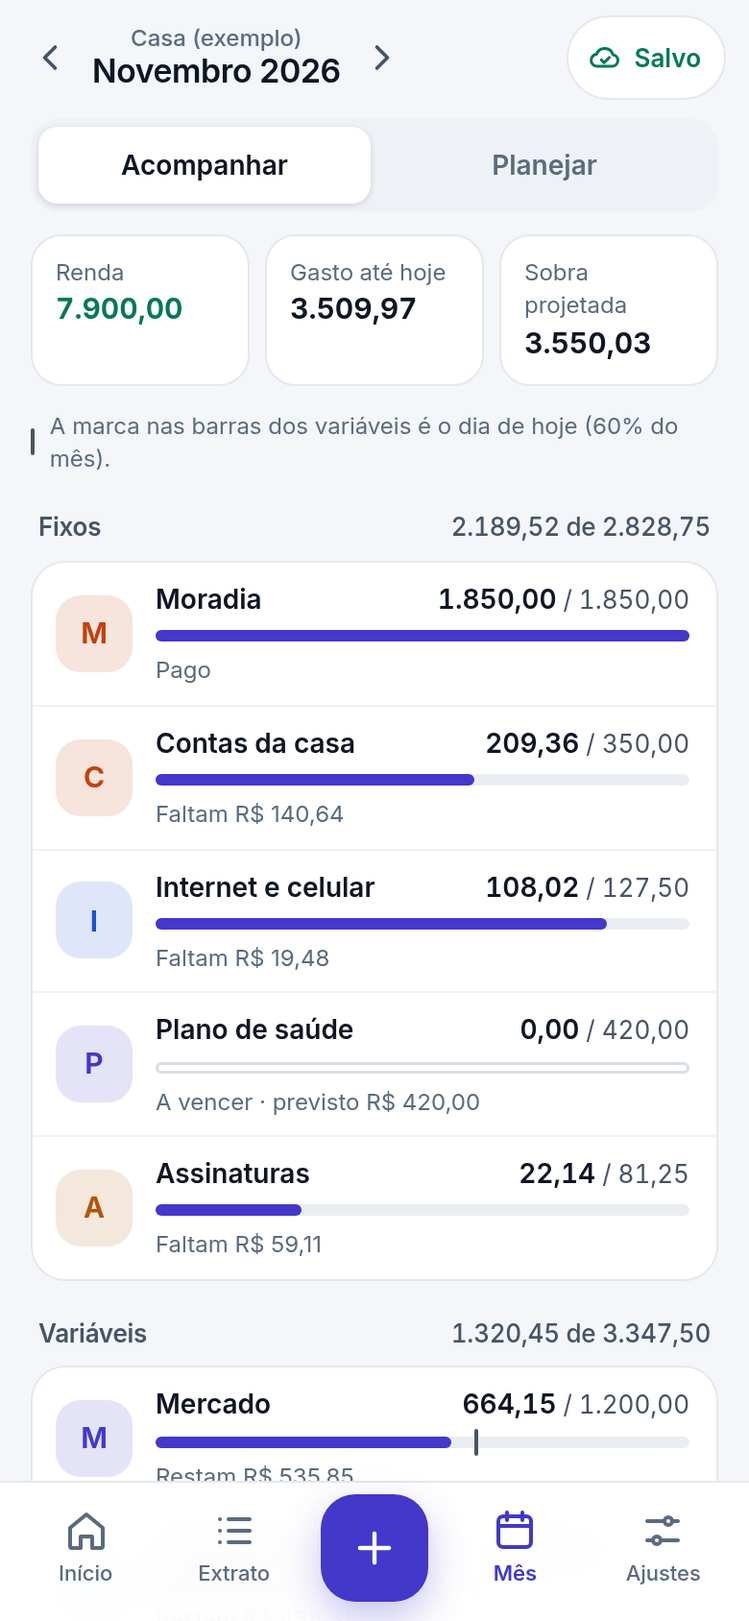
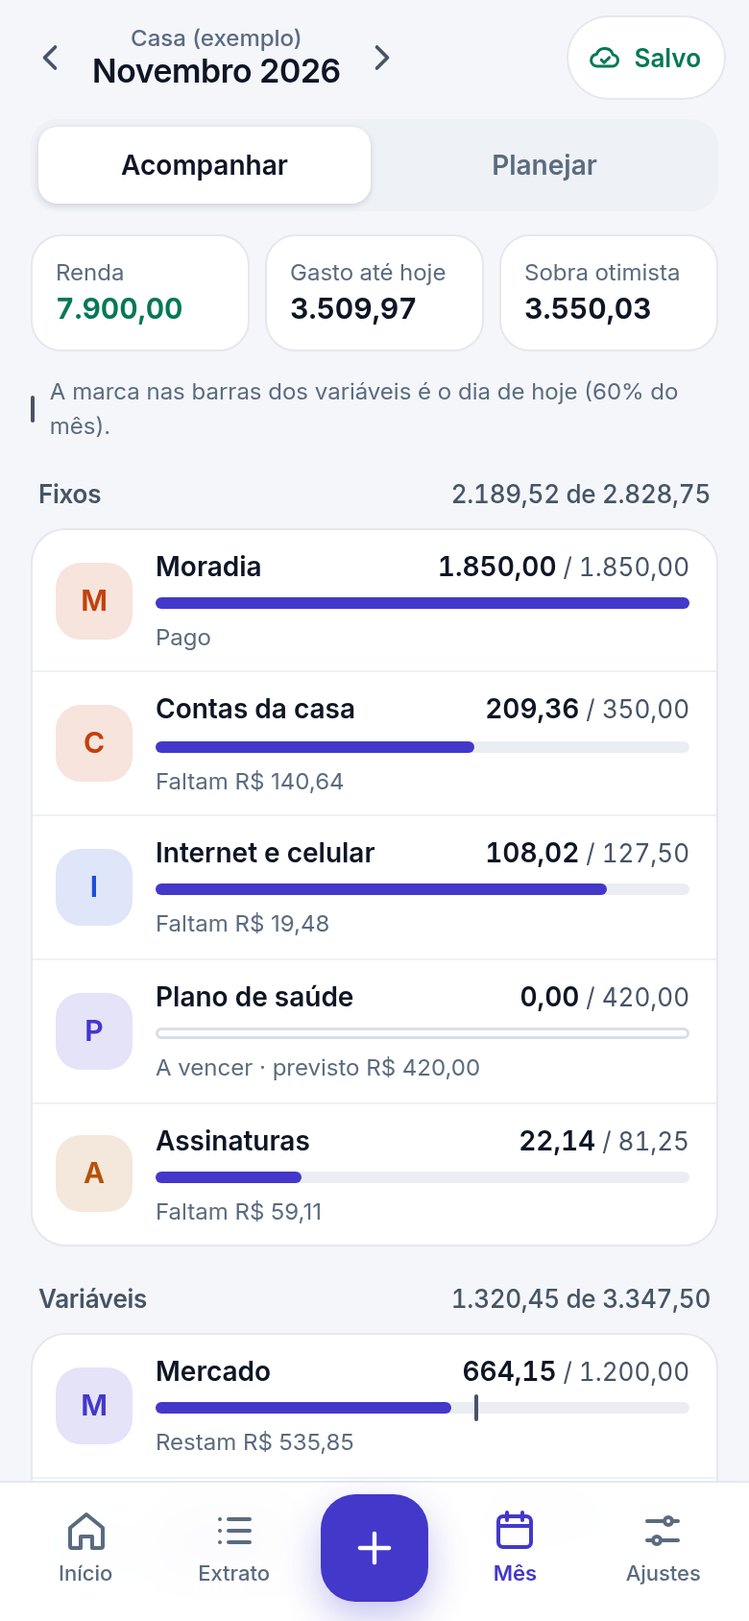
2.1.2: de onde vem o disponível e sobra otimista explicada

diff --git a/src/App.html b/src/App.html
@@ -331,15 +331,20 @@ function resumo(ano, mes) {
   const dias = diasNoMes(ano, mes);
   const restantes = f === 'atual' ? dias - h.dia + 1 : 0;
   const rendaBase = rendaReal > 0 ? rendaReal : renda;
+  const previsto = arred(gastos - gastoReal);
+  const aindaNaConta = rendaBase - gastoReal;
+  const restanteIniciados = Math.max(0, aRealizar - previsto);
+  const sobraBase = aindaNaConta - previsto;
   const disponivel = rendaBase - gastoReal - aRealizar;
   const sobraSeGastarPlanos = renda - gastoReal - aRealizar;
   return {
     fase: f, qtd, qtdGastos, qtdConsumo, dias, restantes, porCat,
-    renda: arred(renda), rendaPlano: arred(rendaPlano), gastos: arred(gastos), sobra: arred(renda - gastos), previsto: arred(gastos - gastoReal),
+    renda: arred(renda), rendaPlano: arred(rendaPlano), gastos: arred(gastos), sobra: arred(renda - gastos), previsto,
     gastosConsumo: arred(gastosConsumo),
     gastoComPlano: arred(gastoComPlano), semPlano: arred(semPlano), semPlanoQtd,
     rendaReal: arred(rendaReal), gastoReal: arred(gastoReal), aVencer: arred(aVencer), planoGastos: arred(planoGastos),
-    rendaBase: arred(rendaBase), gastoConsumoReal: arred(gastoConsumoReal),
+    rendaBase: arred(rendaBase), aindaNaConta: arred(aindaNaConta), restanteIniciados: arred(restanteIniciados), sobraBase: arred(sobraBase),
+    gastoConsumoReal: arred(gastoConsumoReal),
     guardadoPlano: arred(guardadoPlano), guardadoReal: arred(guardadoReal),
     aRealizar: arred(aRealizar), aRealizarConsumo: arred(aRealizarConsumo),
     sobraSeGastarPlanos: arred(sobraSeGastarPlanos), disponivel: arred(disponivel), sobraReal: arred(rendaReal - gastoReal),
@@ -587,16 +592,20 @@ function cartaoHeroi(r) {
     const rendaLbl = r.rendaReal > 0 ? 'Renda recebida' : 'Renda prevista';
     const rendaDet = r.rendaReal > 0 && r.rendaPlano > r.rendaReal ? ` (de ${moeda(r.rendaPlano)})` : '';
     const saiuLbl = r.guardadoReal > 0 ? '− Já saiu (gastos + Guardar)' : '− Já saiu';
-    const resLbl = r.guardadoPlano > 0 ? '− Ainda reservado (planos + Guardar)' : '− Ainda reservado';
     const conta = `<div class="conta-heroi">`
       + `<div><span>${rendaLbl}${rendaDet}</span><strong>${moeda(r.rendaBase)}</strong></div>`
       + `<div><span>${saiuLbl}</span><strong>${moeda(r.gastoReal)}</strong></div>`
-      + `<div><span>${resLbl}</span><strong>${moeda(r.aRealizar)}</strong></div>`
+      + `<div class="subtotal"><span>= ${r.rendaReal > 0 ? 'Ainda na conta' : 'Ainda previsto'}</span><strong>${moeda(r.aindaNaConta)}</strong></div>`
+      + (r.previsto > 0 ? `<div><span>− Planos sem lançamento</span><strong>${moeda(r.previsto)}</strong></div>` : '')
+      + (r.restanteIniciados > 0 ? `<div><span>− Restante dos planos já iniciados</span><strong>${moeda(r.restanteIniciados)}</strong></div>` : '')
       + `<div class="total"><span>= Disponível</span><strong>${moeda(r.disponivel)}</strong></div>`
       + '</div>';
-    const dica = '<p class="sub" style="margin-top:10px">O disponível é o que sobra depois de tudo o que já saiu e do que ainda está reservado. Gastar menos que o plano aumenta a sobra.</p>';
+    const sobraNota = r.restanteIniciados > 0
+      ? `<p class="sub" style="margin-top:8px">Se você não gastar o restante dos planos, sobram ${moeda(r.sobraBase)}.</p>` : '';
+    const dica = '<p class="sub" style="margin-top:8px">“Ainda na conta” é o que entrou menos o que já saiu. O “Disponível” desconta o que ainda está planejado.</p>'
+      + (r.aRealizar > 0 ? '<p class="sub" style="margin-top:4px"><button type="button" class="link" data-acao="detalhe-reserva" data-foco="detalhe-reserva">De onde vem esse valor?</button></p>' : '');
     return `<section class="cartao g-heroi heroi" aria-labelledby="h-livre"><h2 id="h-livre" class="rotulo">Disponível para gastar até ${r.dias}/${dois(S.mes)}</h2>`
-      + `<p class="numero-heroi${r.disponivel < 0 ? ' negativo' : ''}">${moeda(r.disponivel)}</p><p class="sub">${sub}</p>${conta}${dica}</section>`;
+      + `<p class="numero-heroi${r.disponivel < 0 ? ' negativo' : ''}">${moeda(r.disponivel)}</p><p class="sub">${sub}</p>${conta}${sobraNota}${dica}</section>`;
   }
   if (r.fase === 'passado') {
     const real = r.qtdGastos > 0 || r.rendaReal > 0;
@@ -635,7 +644,7 @@ function cartaoKpis(r) {
     tiles = [
       ['Renda do mês', moeda(r.rendaPlano || r.renda), r.rendaReal > 0 ? (r.rendaPlano > r.rendaReal ? `recebida ${moeda(r.rendaReal)} de ${moeda(r.rendaPlano)}` : `recebida ${moeda(r.rendaReal)}`) : 'prevista', 'ok'],
       ['Já saiu', moeda(r.gastoReal), `${r.qtdGastos} lançamento${r.qtdGastos === 1 ? '' : 's'}${r.guardadoReal > 0 ? ` · guardado ${moeda(r.guardadoReal)}` : ''}`, ''],
-      ['Ainda reservado', moeda(r.aRealizar), r.guardadoPlano > 0 ? 'planos + guardar' : 'planos do mês', ''],
+      ['Ainda planejado', moeda(r.aRealizar), r.guardadoPlano > 0 ? 'planos + guardar' : 'o que falta nos planos', ''],
       ['Guardado', moeda(r.guardadoReal), r.guardadoPlano > 0 ? `meta ${moeda(r.guardadoPlano)}` : g ? 'sem meta neste mês' : 'defina uma meta', ''],
     ];
   } else if (r.fase === 'passado') {
@@ -779,7 +788,8 @@ function cartaoAno() {
   const meses = Array.from({ length: 12 }, (_, i) => {
     const rr = resumo(S.ano, i + 1);
     const real = rr.fase === 'passado' && (rr.qtdGastos > 0 || rr.rendaReal > 0);
-    return { mes: i + 1, sobra: real ? rr.sobraReal : rr.sobra, fase: rr.fase, real };
+    const sobra = rr.fase === 'atual' ? rr.sobraBase : real ? rr.sobraReal : rr.sobra;
+    return { mes: i + 1, sobra, fase: rr.fase, real };
   });
   const mp = Math.max(0, ...meses.map((m) => m.sobra)); const mn = Math.max(0, ...meses.map((m) => -m.sobra));
   const total = mp + mn || 1;
@@ -789,14 +799,14 @@ function cartaoAno() {
   const barras = meses.map((m) => {
     const hPos = m.sobra > 0 && mp ? Math.max(2, Math.round((m.sobra / mp) * hp)) : 0;
     const hNeg = m.sobra < 0 && mn ? Math.max(2, Math.round((-m.sobra / mn) * hn)) : 0;
-    const extra = m.real ? ' (realizada)' : ' (projeção)';
+    const extra = m.fase === 'atual' ? ' (projeção otimista: não desconta o restante dos planos)' : m.real ? ' (realizada)' : ' (projeção)';
     return `<button type="button" class="ga-mes ${m.fase}${!m.real && m.fase !== 'futuro' ? ' futuro' : ''}${m.mes === S.mes ? ' sel' : ''}" data-acao="ir-mes" data-mes="${m.mes}" data-foco="ga-${m.mes}" title="${esc(Mes(m.mes) + ': ' + moeda(m.sobra) + extra)}" aria-label="${esc(Mes(m.mes) + ': ' + moeda(m.sobra) + extra)}">`
       + `<span class="ga-pos"><i style="height:${hPos}px"></i></span><span class="ga-neg"><i style="height:${hNeg}px"></i></span><span class="ga-rot">${MesC(m.mes)}</span></button>`;
   }).join('');
   return `<section class="cartao g-ano" aria-labelledby="h-ano"><div class="cartao-topo"><h2 id="h-ano">Sobra mês a mês · ${S.ano}</h2></div>`
     + '<div class="legenda"><span><i style="background:var(--acento)"></i>sobrou</span><span><i style="background:var(--acima)"></i>faltou</span><span><i style="box-shadow:inset 0 0 0 1.5px var(--tinta-3)"></i>projeção (contorno)</span></div>'
     + `<figure class="grafico-ano"><div class="ga-barras" style="--hp:${hp}px;--hn:${hn}px">${barras}</div>`
-    + `<figcaption class="sub" style="margin-top:8px">Acumulado em ${S.ano}, contando o previsto: <strong class="${acumulado < 0 ? 'txt-acima' : 'txt-ok'}">${moeda(acumulado)}</strong></figcaption></figure></section>`;
+    + `<figcaption class="sub" style="margin-top:8px">Acumulado em ${S.ano}, contando o previsto: <strong class="${acumulado < 0 ? 'txt-acima' : 'txt-ok'}">${moeda(acumulado)}</strong>. A sobra do mês atual é otimista: não desconta o restante dos planos já iniciados.</figcaption></figure></section>`;
 }
 
 /* ---------- Extrato ---------- */
@@ -873,9 +883,10 @@ function kpisMes(r) {
   }
   const atual = r.fase === 'atual';
   const renda = atual ? (r.rendaPlano || r.renda) : r.fase === 'passado' ? (r.rendaReal || r.renda) : r.renda;
+  const sobraKpi = atual ? r.sobraBase : r.fase === 'futuro' ? r.sobra : (r.rendaReal > 0 || r.gastoReal > 0 ? r.sobraReal : r.sobra);
   return `<div class="kpis-mes"><div><span>Renda</span><strong class="txt-ok">${num(renda)}</strong></div>`
     + `<div><span>${atual ? 'Gasto até hoje' : r.fase === 'futuro' ? 'Gastos previstos' : 'Gastos'}</span><strong>${num(atual ? r.gastoConsumoReal : r.gastosConsumo)}</strong></div>`
-    + `<div class="${r.sobra < 0 ? 'alerta' : ''}"><span>${atual ? 'Sobra projetada' : r.fase === 'futuro' ? 'Sobra prevista' : 'Sobra'}</span><strong>${num(r.sobra)}</strong></div></div>`;
+    + `<div class="${sobraKpi < 0 ? 'alerta' : ''}"${atual ? ' title="Não desconta o restante dos planos já iniciados"' : ''}><span>${atual ? 'Sobra otimista' : r.fase === 'futuro' ? 'Sobra prevista' : 'Sobra'}</span><strong>${num(sobraKpi)}</strong></div></div>`;
 }
 function telaAcompanhar(r) {
   const blocos = ORDEM_GRUPOS.map((g) => {
@@ -1387,6 +1398,58 @@ function confirmarPrevisto(cid, ano, mes) {
   aviso(ehGuardar(c) ? `${moeda(v.plano)} guardado.` : `${c.nome}: ${moeda(v.plano)} lançado.`, { acao: 'Desfazer', fn: () => registrar({ t: 'lanc-', id }) });
 }
 
+/* ---------- De onde vem o disponível ---------- */
+function abrirDetalheReserva() {
+  const ano = S.ano; const mes = S.mes;
+  abrirFolha({
+    tipo: 'reserva',
+    montar(el) {
+      const r = resumo(ano, mes);
+      const semLanc = r.porCat.filter(({ c, v }) => c.grupo !== 'renda' && v.plano > 0 && v.real === 0)
+        .sort((a, b) => b.v.plano - a.v.plano);
+      const iniciados = r.porCat.filter(({ c, v }) => c.grupo !== 'renda' && v.plano > 0 && v.real > 0 && v.plano > v.real + 0.004)
+        .sort((a, b) => (b.v.plano - b.v.real) - (a.v.plano - a.v.real));
+      const acima = r.porCat.filter(({ c, v }) => c.grupo !== 'renda' && v.plano > 0 && v.real > v.plano + 0.004)
+        .sort((a, b) => (b.v.real - b.v.plano) - (a.v.real - a.v.plano));
+      const totalAcima = acima.reduce((a, { v }) => a + (v.real - v.plano), 0);
+      const linha = (c, detalhe, valor, classe = '') => `<div class="reserva-linha">${mono(c)}<div class="reserva-txt"><strong>${esc(c.nome)}</strong><span>${esc(detalhe)}</span></div><strong class="reserva-valor${classe ? ' ' + classe : ''}">${valor}</strong></div>`;
+      const linhas = [
+        `<div><span>${r.rendaReal > 0 ? 'Renda recebida' : 'Renda prevista'}</span><strong>${moeda(r.rendaBase)}</strong></div>`,
+        `<div><span>− Já saiu</span><strong>${moeda(r.gastoReal)}</strong></div>`,
+        `<div class="subtotal"><span>= ${r.rendaReal > 0 ? 'Ainda na conta' : 'Ainda previsto'}</span><strong>${moeda(r.aindaNaConta)}</strong></div>`,
+        r.previsto > 0 ? `<div><span>− Planos sem lançamento</span><strong>${moeda(r.previsto)}</strong></div>` : '',
+        `<div class="subtotal"><span>= Sobra se não gastar o restante</span><strong>${moeda(r.sobraBase)}</strong></div>`,
+        r.restanteIniciados > 0 ? `<div><span>− Restante dos planos já iniciados</span><strong>${moeda(r.restanteIniciados)}</strong></div>` : '',
+        `<div class="total"><span>= Disponível</span><strong>${moeda(r.disponivel)}</strong></div>`,
+      ].join('');
+      const bloco = (titulo, total, texto, itens, fmt) => !itens.length ? ''
+        : `<section><h3 class="grupo-titulo"><span>${titulo}</span><span>${moeda(total)}</span></h3><p class="sub">${texto}</p><div class="lista">${itens.map(fmt).join('')}</div></section>`;
+      el.innerHTML = topoFolha('De onde vem o disponível', `${Mes(mes)} de ${ano}`)
+        + '<div class="folha-corpo">'
+        + '<p class="sub">O disponível é o dinheiro que sobra depois de tudo o que já saiu e do que ainda está planejado. “Ainda planejado” não é dinheiro que saiu: é o que falta para completar os planos que você gravou.</p>'
+        + `<div class="conta-heroi" style="margin-top:0">${linhas}</div>`
+        + bloco('Planos sem lançamento', r.previsto, 'Categorias com plano e nenhum gasto ainda. A sobra já conta esses valores como gastos.', semLanc,
+          ({ c, v }) => linha(c, `plano ${moeda(v.plano)}`, moeda(v.plano)))
+        + bloco('Restante dos planos já iniciados', r.restanteIniciados, 'Categorias em que você já gastou algo, mas o plano é maior. Esse resto é o que reduz o disponível em relação à sobra.', iniciados,
+          ({ c, v }) => linha(c, `plano ${moeda(v.plano)} · gasto ${moeda(v.real)}`, moeda(v.plano - v.real)))
+        + bloco('Acima do plano', totalAcima, 'Categorias em que você gastou mais que o plano. O excesso já saiu; não entra no “ainda planejado”.', acima,
+          ({ c, v }) => linha(c, `plano ${moeda(v.plano)} · gasto ${moeda(v.real)}`, moeda(v.real - v.plano), 'acima'))
+        + '<div class="acoes"><button type="button" class="botao" data-f="ajustar">Ajustar planos</button></div>'
+        + '</div>';
+      el.addEventListener('click', (e) => {
+        const b = e.target.closest('[data-f]');
+        if (!b) return;
+        if (b.dataset.f === 'fechar') fecharFolha();
+        else if (b.dataset.f === 'ajustar') {
+          fecharFolha();
+          S.modoMes = 'planejar';
+          if (S.tela !== 'mes') irPara('mes'); else render();
+        }
+      });
+    },
+  });
+}
+
 /* ---------- Importar backup ---------- */
 function abrirImportar() {
   abrirFolha({
@@ -1650,6 +1713,7 @@ const ACOES = {
   'criar-guardar': (el) => definirGuardar(Number(el.dataset.valor) || 0),
   'meta-sugestao': (el) => definirGuardar(Number(el.dataset.valor) || 0),
   'planejar-sem-plano': () => planejarSemPlano(),
+  'detalhe-reserva': () => abrirDetalheReserva(),
   'modo-mes': (el) => { S.modoMes = el.dataset.modo; render(); },
   filtro: (el) => { S.filtro = el.dataset.filtro; renderExtrato($('#tela')); },
   calor: (el) => { S.calor = el.dataset.calor === '1'; render(); },

diff --git a/src/Estilos.html b/src/Estilos.html
@@ -294,6 +294,14 @@ kbd { font: 500 12px var(--fonte); padding: 2px 7px; border-radius: 6px; backgro
 .conta-heroi strong { color: var(--tinta); font-weight: 600; white-space: nowrap; font-variant-numeric: tabular-nums; }
 .conta-heroi .total { margin-top: 4px; padding-top: 8px; border-top: 1px dashed var(--linha); color: var(--tinta); font-weight: 650; }
 .conta-heroi .total strong { color: var(--acento); font-size: 16px; }
+.conta-heroi .subtotal { margin-top: 2px; padding-top: 6px; border-top: 1px dashed var(--linha-2); color: var(--tinta); font-weight: 600; }
+.reserva-linha { display: flex; align-items: center; gap: 10px; padding: 10px 12px; border-top: 1px solid var(--linha-2); }
+.reserva-linha:first-child { border-top: 0; }
+.reserva-txt { flex: 1; min-width: 0; display: flex; flex-direction: column; }
+.reserva-txt strong { font-size: 14px; font-weight: 600; white-space: nowrap; overflow: hidden; text-overflow: ellipsis; }
+.reserva-txt span { font-size: 12px; color: var(--tinta-3); }
+.reserva-valor { font-size: 14px; font-weight: 600; white-space: nowrap; }
+.reserva-valor.acima { color: var(--acima); }
 .kpis { display: grid; grid-template-columns: repeat(2, minmax(0, 1fr)); gap: 12px; }
 .kpi { display: flex; flex-direction: column; gap: 2px; padding: 14px 16px; }
 .kpi-valor { font-size: 20px; font-weight: 650; letter-spacing: -.02em; }

diff --git a/docs/USAR.md b/docs/USAR.md
@@ -51,17 +51,27 @@ Errou? Logo depois de salvar aparece **Desfazer**. Para corrigir depois, toque n
 
 ### Início
 
-- **Disponível para gastar até o fim do mês:** quanto dá para gastar depois de guardar e reservar os planos. O cartão mostra a conta em quatro linhas: **Renda** (recebida; se nada entrou ainda, prevista) − **Já saiu** (gastos e transferências para Guardar) − **Ainda reservado** (planos e a meta de Guardar que ainda não foi transferida) = **Disponível**. O texto abaixo do número divide esse valor pelos dias que faltam e mostra o máximo por dia. Se o valor ficar negativo, o texto avisa que os gastos, os planos e a economia já passam da renda disponível. Gastar menos que o plano aumenta a sobra.
-- **Ritmo do plano:** cartão separado do disponível. A barra compara o gasto das categorias de consumo com o plano delas e com o ritmo do mês: fica em **atenção** quando você está mais de 12 pontos à frente do mês, e em **acima** quando passa do plano. Guardar fica de fora. A barra não é a conta do disponível; ela só mostra o ritmo.
-- **Números do mês:** renda do mês (**recebida** ou **prevista**), **já saiu** (gastos; inclui Guardar quando houver transferência), **ainda reservado** (planos e meta de Guardar) e **guardado** (com a meta, quando existe).
+- **Disponível para gastar até o fim do mês:** quanto dá para gastar depois de guardar e reservar os planos. O cartão mostra a conta em linhas: **Renda** (recebida; se nada entrou ainda, prevista) − **Já saiu** = **Ainda na conta** − **Planos sem lançamento** − **Restante dos planos já iniciados** = **Disponível**. “Ainda na conta” é o dinheiro que entrou menos o que já saiu. “Planos sem lançamento” são categorias com plano e nenhum gasto. “Restante dos planos já iniciados” são categorias em que você já gastou algo, mas o plano é maior. O link **De onde vem esse valor?** abre a lista de cada categoria e um botão para **Ajustar planos**. O texto abaixo do número divide o disponível pelos dias que faltam. Se o valor ficar negativo, o texto avisa que os gastos, os planos e a economia já passam da renda disponível. Gastar menos que o plano aumenta a sobra.
+- **Ritmo do plano:** cartão separado do disponível. A barra compara o gasto das categorias de consumo com o plano delas e com o ritmo do mês: fica em **atenção** quando você está mais de 12 pontos à frente do mês, e em **acima** quando passa do plano. Guardar fica de fora. A barra não é a conta do disponível; ela só mostra o ritmo, e o plano total inclui o que você ainda não gastou.
+- **Números do mês:** renda do mês (**recebida** ou **prevista**), **já saiu** (gastos; inclui Guardar quando houver transferência), **ainda planejado** (planos e meta de Guardar) e **guardado** (com a meta, quando existe).
 - **Meta de economia:** a meta do mês, o que já foi guardado e o que falta. O campo abaixo da barra grava a meta (também dá para editá-la na tela Mês); **Confirmar** lança a transferência com a data de hoje. O valor já estava reservado no disponível, então confirmar só registra a transferência. Se a categoria Guardar ainda não existe, o cartão mostra uma sugestão de **80% da sua sobra média realizada dos últimos 3 meses fechados** e oferece criar a categoria já com esse valor. A sugestão não é automática: ela só vira meta quando você toca no botão ou grava o valor.
 - **Cobertura do plano:** aparece quando há categorias de consumo sem plano. Mostra **“Sem plano: R$ ...”**, o valor que está fora da barra e não é reservado no disponível, e oferece **Planejar agora**, pela média dos últimos 3 meses (ou pelo valor já lançado, quando não há média). A partir daí, o disponível passa a reservar esses planos.
 - **A vencer este mês:** contas fixas com plano e sem lançamento, sem Guardar. O botão **Confirmar** lança o valor do plano com a data de hoje.
 - **Avisos:** categorias de consumo que passaram do plano ou que estão gastando rápido demais. Guardar nunca entra como "passou do plano".
 
-### Sobra projetada e sobra realizada
+### Sobra otimista e sobra realizada
 
-A sobra **não é o número principal do Início**: o Início mostra o **disponível**, que já desconta o que ainda está reservado. No mês atual, a sobra é uma **projeção**: ela usa o que foi lançado e, nas categorias sem lançamento, o plano. Não é dinheiro que já sobrou. Nos meses fechados, quando há dados reais, o app mostra a **sobra realizada** (renda recebida − gastos lançados) e a rotula "realizada"; sem dados reais, mostra "com previsto". A sobra projetada aparece na tela **Mês** e no gráfico **Sobra mês a mês**, no fim do Início, que marca os meses projetados com contorno.
+A **sobra otimista** que aparece na tela Mês não desconta o restante dos planos já iniciados. Ela é a conta: **Ainda na conta − planos sem lançamento**. Por isso pode ser bem maior que o **Disponível** do Início. O cartão **De onde vem o disponível** mostra a ponte completa:
+
+```
+Ainda na conta
+− planos sem lançamento
+= sobra otimista
+− restante dos planos já iniciados
+= Disponível
+```
+
+Se você não vai gastar o restante de algum plano, ajuste o valor em **Mês › Planejar**; o disponível sobe. Nos meses fechados, quando há dados reais, o app mostra a **sobra realizada** (renda recebida − gastos lançados) e a rotula "realizada"; sem dados reais, mostra "com previsto". O gráfico **Sobra mês a mês**, no fim do Início, marca os meses projetados com contorno e avisa que a sobra do mês atual é otimista.
 
 ### Extrato
 

diff --git a/docs/ARQUITETURA.md b/docs/ARQUITETURA.md
@@ -93,9 +93,12 @@ Campos de `resumo(ano, mes)`:
 | `aRealizar` | soma de `max(0, plano − real)` de todas as categorias de saída; inclui Guardar |
 | `aRealizarConsumo` | o mesmo, só nas categorias de consumo |
 | `previsto` | `gastos − gastoReal`: a diferença agregada dos planos sem lançamento |
-| `disponivel` | `rendaBase − gastoReal − aRealizar` |
+| `aindaNaConta` | `rendaBase − gastoReal`: o dinheiro que já entrou menos o que já saiu |
+| `restanteIniciados` | `aRealizar − previsto`: o que falta nos planos de categorias que já tiveram algum lançamento |
+| `disponivel` | `rendaBase − gastoReal − aRealizar` (equivale a `sobraBase − restanteIniciados`) |
 | `porDia` | `disponivel / dias restantes` no mês atual; 0 nos demais |
 | `sobra` | `renda − gastos` (projeção; inclui Guardar) |
+| `sobraBase` | `rendaBase − gastoReal − previsto`: a sobra otimista do mês atual, com a renda recebida; é `aindaNaConta − previsto` |
 | `sobraSeGastarPlanos` | `renda − gastoReal − aRealizar` (se gastar tudo o que ainda está nos planos) |
 | `sobraReal` | `rendaReal − gastoReal` (realizado) |
 | `planoGastos` e `gastoComPlano` | só categorias de consumo; alimentam a barra do plano |
@@ -103,12 +106,12 @@ Campos de `resumo(ano, mes)`:
 | `qtdGastos` e `qtdConsumo` | quantidade de lançamentos de saída e de consumo |
 | `aVencer` | fixos com plano e sem lançamento, para o cartão "A vencer"; o cartão exclui Guardar |
 
-`previsto` e `aRealizar` não são a mesma coisa: `aRealizar` soma apenas o que falta em cada plano e não desconta o que passou dele; `previsto` é a diferença agregada entre `gastos` e `gastoReal`.
+`previsto` e `aRealizar` não são a mesma coisa: `aRealizar` soma apenas o que falta em cada plano e não desconta o que passou dele; `previsto` é a diferença agregada entre `gastos` e `gastoReal`. A soma `previsto + restanteIniciados` é o `aRealizar`.
 
-A diferença central está entre `sobra` e `disponivel`: `sobra` responde "quanto sobra se o mês terminar como está previsto?" e `disponivel` responde "quanto posso gastar agora sem furar os planos nem a meta?". Por isso `disponivel` parte de `rendaBase` (renda recebida) e desconta `aRealizar` (o que ainda falta sair), incluindo Guardar. Quando parte da renda ainda não entrou, `disponivel` é menor que `sobra`.
+A diferença central está entre `sobraBase` e `disponivel`: `sobraBase` responde "quanto sobra se o mês terminar como está previsto, sem gastar o restante dos planos já iniciados?" e `disponivel` responde "quanto posso gastar agora sem furar os planos nem a meta?". A ponte é `sobraBase − restanteIniciados = disponivel`. O `previsto` já está dentro da `sobraBase`; por isso não se desconta o `aRealizar` inteiro dela. Quando parte da renda ainda não entrou, `disponivel` é menor que `sobra`.
 
 - **Mês fechado:** `sobraReal` é o realizado. `sobra` continua sendo o valor por categoria (o plano quando não há lançamento). Nas telas de mês passado, o app usa `sobraReal` quando há renda/lançamento real e rotula "realizada"; sem dados reais, usa `sobra` e rotula "com previsto".
-- **Herói:** mostra `rendaBase − gastoReal − aRealizar = disponivel`, em quatro linhas (Renda, Já saiu, Ainda reservado, Disponível). A sobra não entra no herói; ela fica na tela Mês e no gráfico anual.
+- **Herói:** mostra a conta completa: `rendaBase − gastoReal = aindaNaConta`; `aindaNaConta − previsto = sobraBase`; `sobraBase − restanteIniciados = disponivel`. A sobra otimista não é o número principal; ela aparece na tela Mês e no gráfico anual. O link "De onde vem esse valor?" abre a folha com a mesma conta e a lista de categorias em planos sem lançamento, restante dos planos iniciados e acima do plano.
 - **Ritmo do plano:** cartão separado; usa `planoGastos` e `gastoComPlano` (só consumo, sem Guardar). Fica `acima` quando o gasto passa o plano; `atencao` quando `planoGastos > 0` e o gasto passa mais de 12 pontos percentuais do ritmo do mês; senão `ok`. Guardar não entra.
 - **Ritmo:** a marca nas barras é o dia de hoje sobre os dias do mês. Uma categoria variável fica "acima do ritmo" quando já usou mais de 12 pontos percentuais além dele. Guardar é sempre `ok`: guardar mais que a meta é bom.
 - **Mapa de calor:** cada mês fechado é comparado com a média dos meses fechados da própria categoria no ano (a partir de 3 meses). Acima de 15% fica laranja; abaixo de −15%, azul.

diff --git a/CHANGELOG.md b/CHANGELOG.md
@@ -1,5 +1,13 @@
 # Changelog
 
+## 2.1.2 — 2026-11-18
+
+### Mudou
+- **De onde vem o disponível.** O herói agora mostra a ponte completa: **Renda − Já saiu = Ainda na conta**, depois **− Planos sem lançamento = Sobra otimista**, depois **− Restante dos planos já iniciados = Disponível**. O link **De onde vem esse valor?** abre a conta e a lista de cada categoria.
+- **Ainda planejado.** O KPI "Ainda reservado" virou "Ainda planejado" e o detalhe separa planos sem lançamento, restante dos planos já iniciados e categorias acima do plano.
+- **Sobra otimista.** A tela Mês e o gráfico usam a sobra do mês atual sem descontar o restante dos planos já iniciados, com aviso explícito. A sobra realizada dos meses fechados não muda.
+- **Ajustar planos.** A folha "De onde vem o disponível" tem um botão que leva direto para **Mês › Planejar**.
+
 ## 2.1.1 — 2026-11-18
 
 ### Mudou
